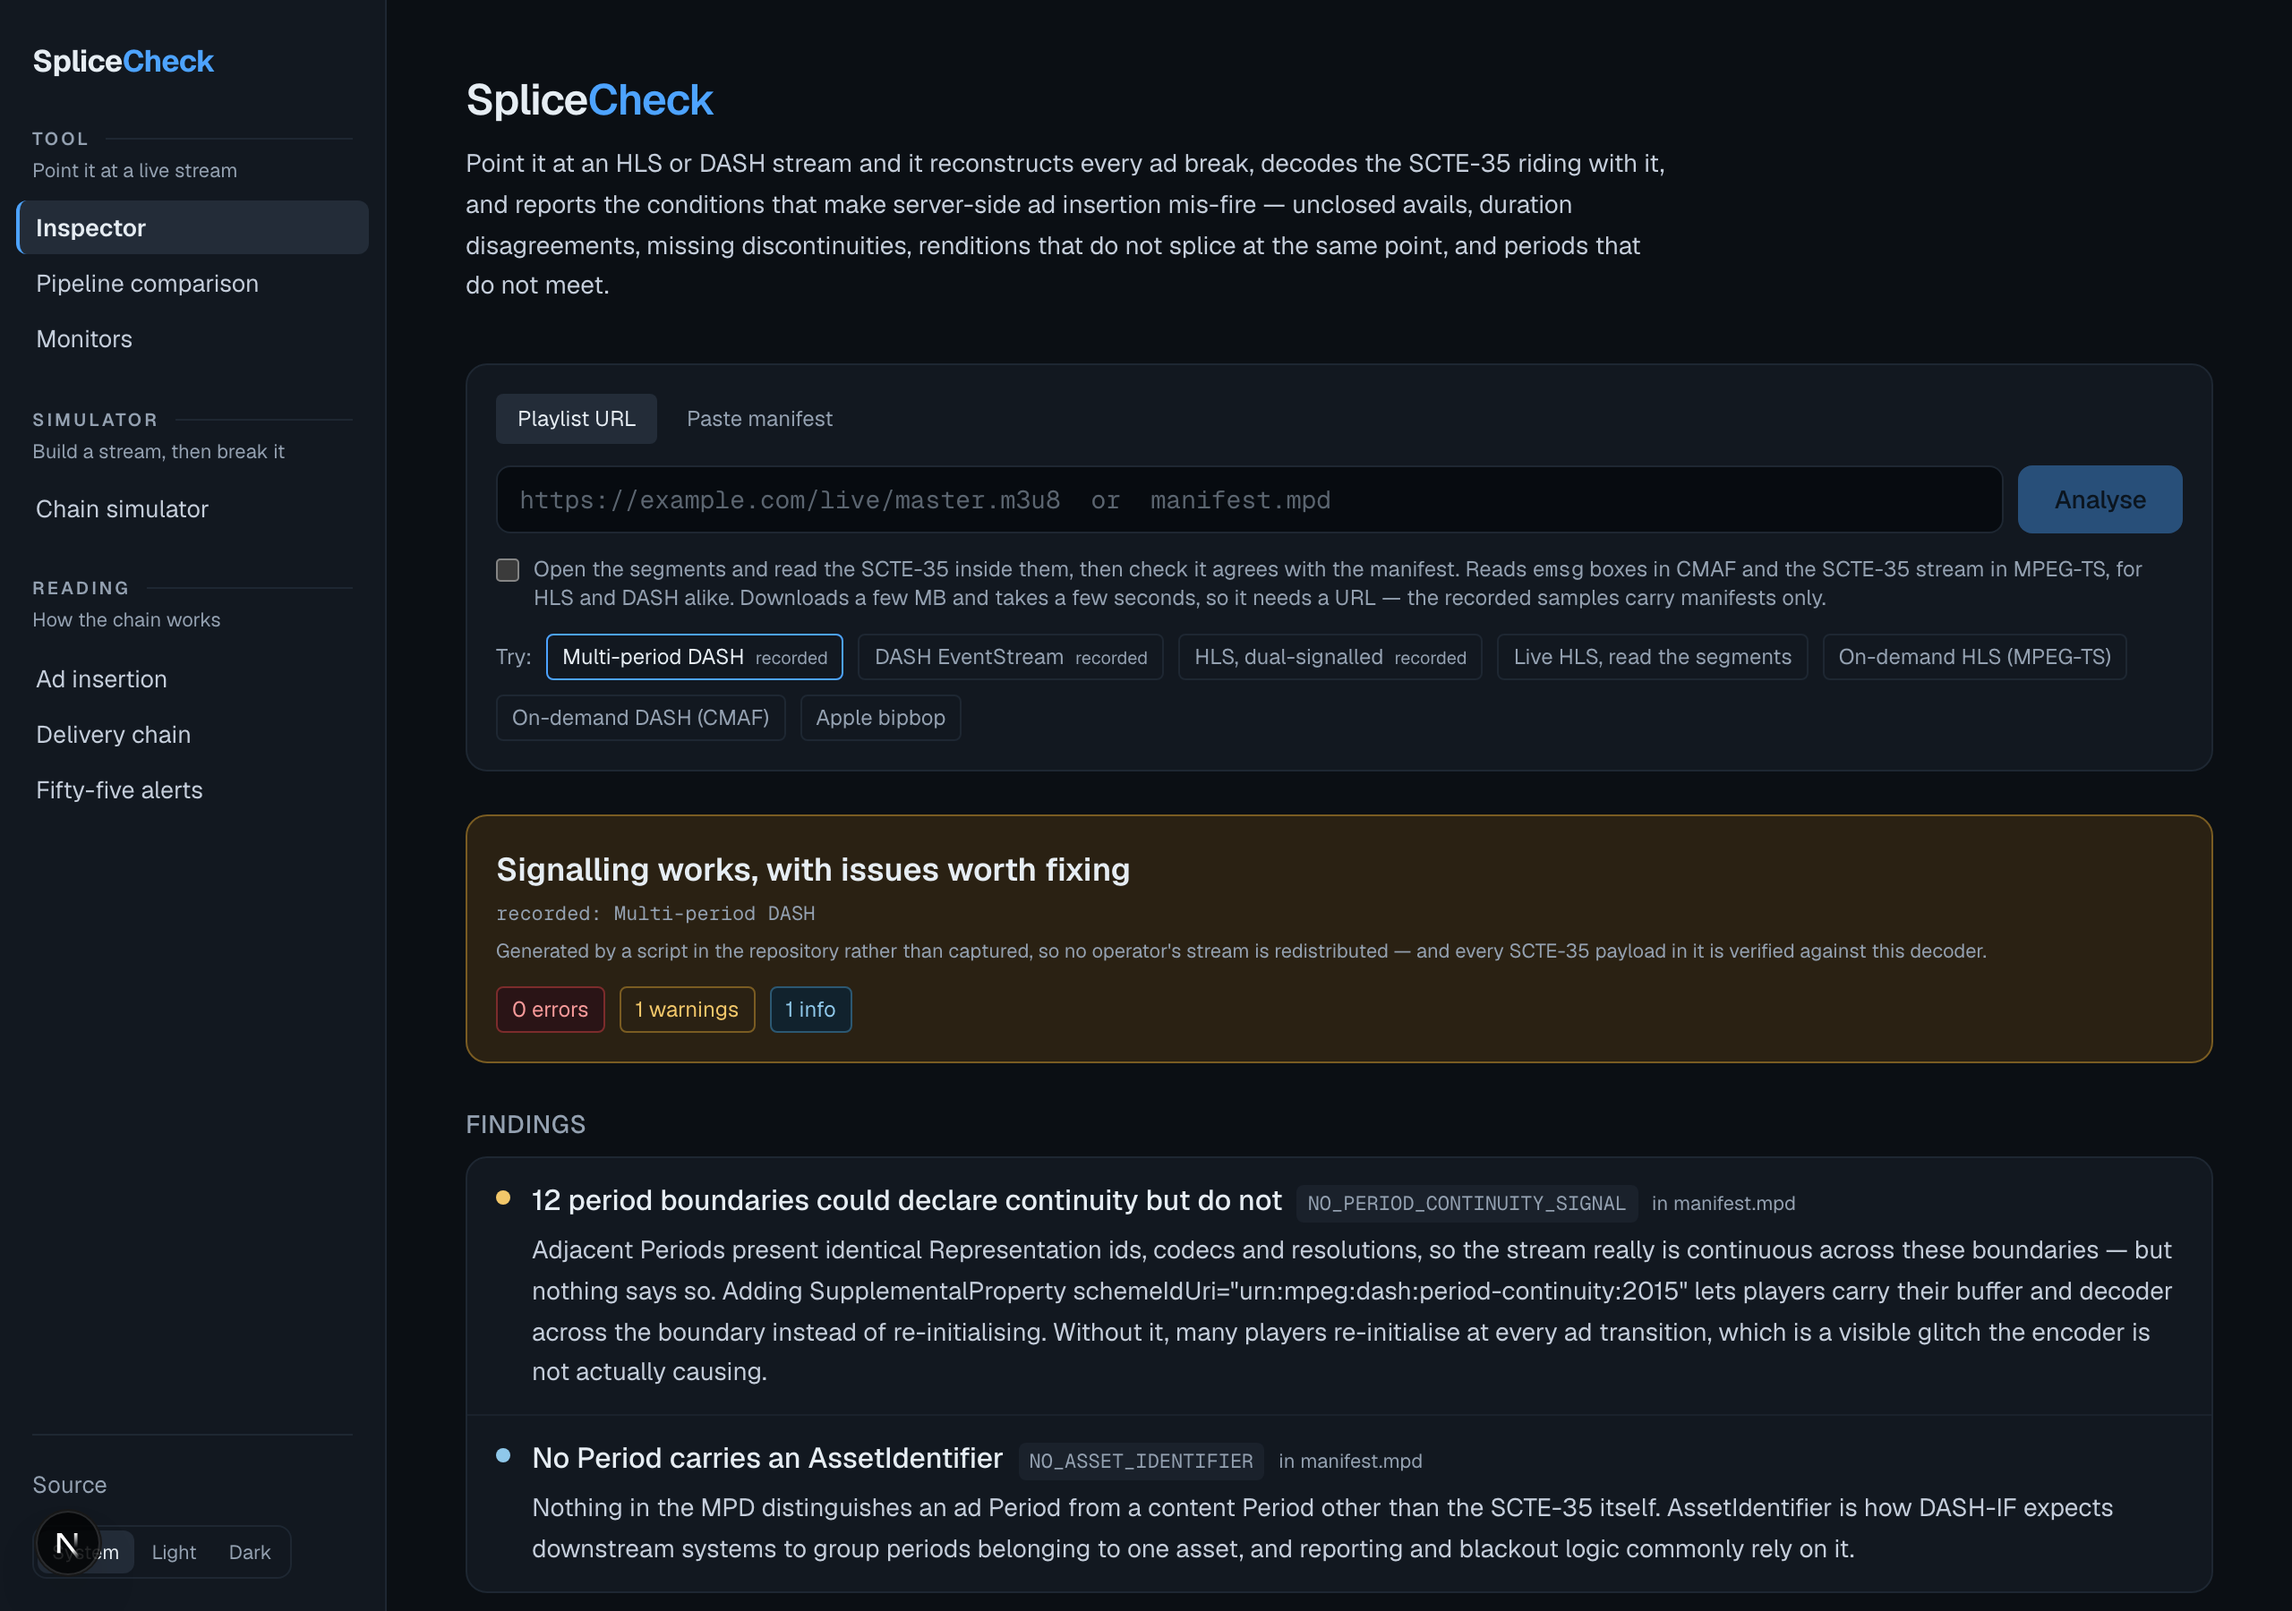
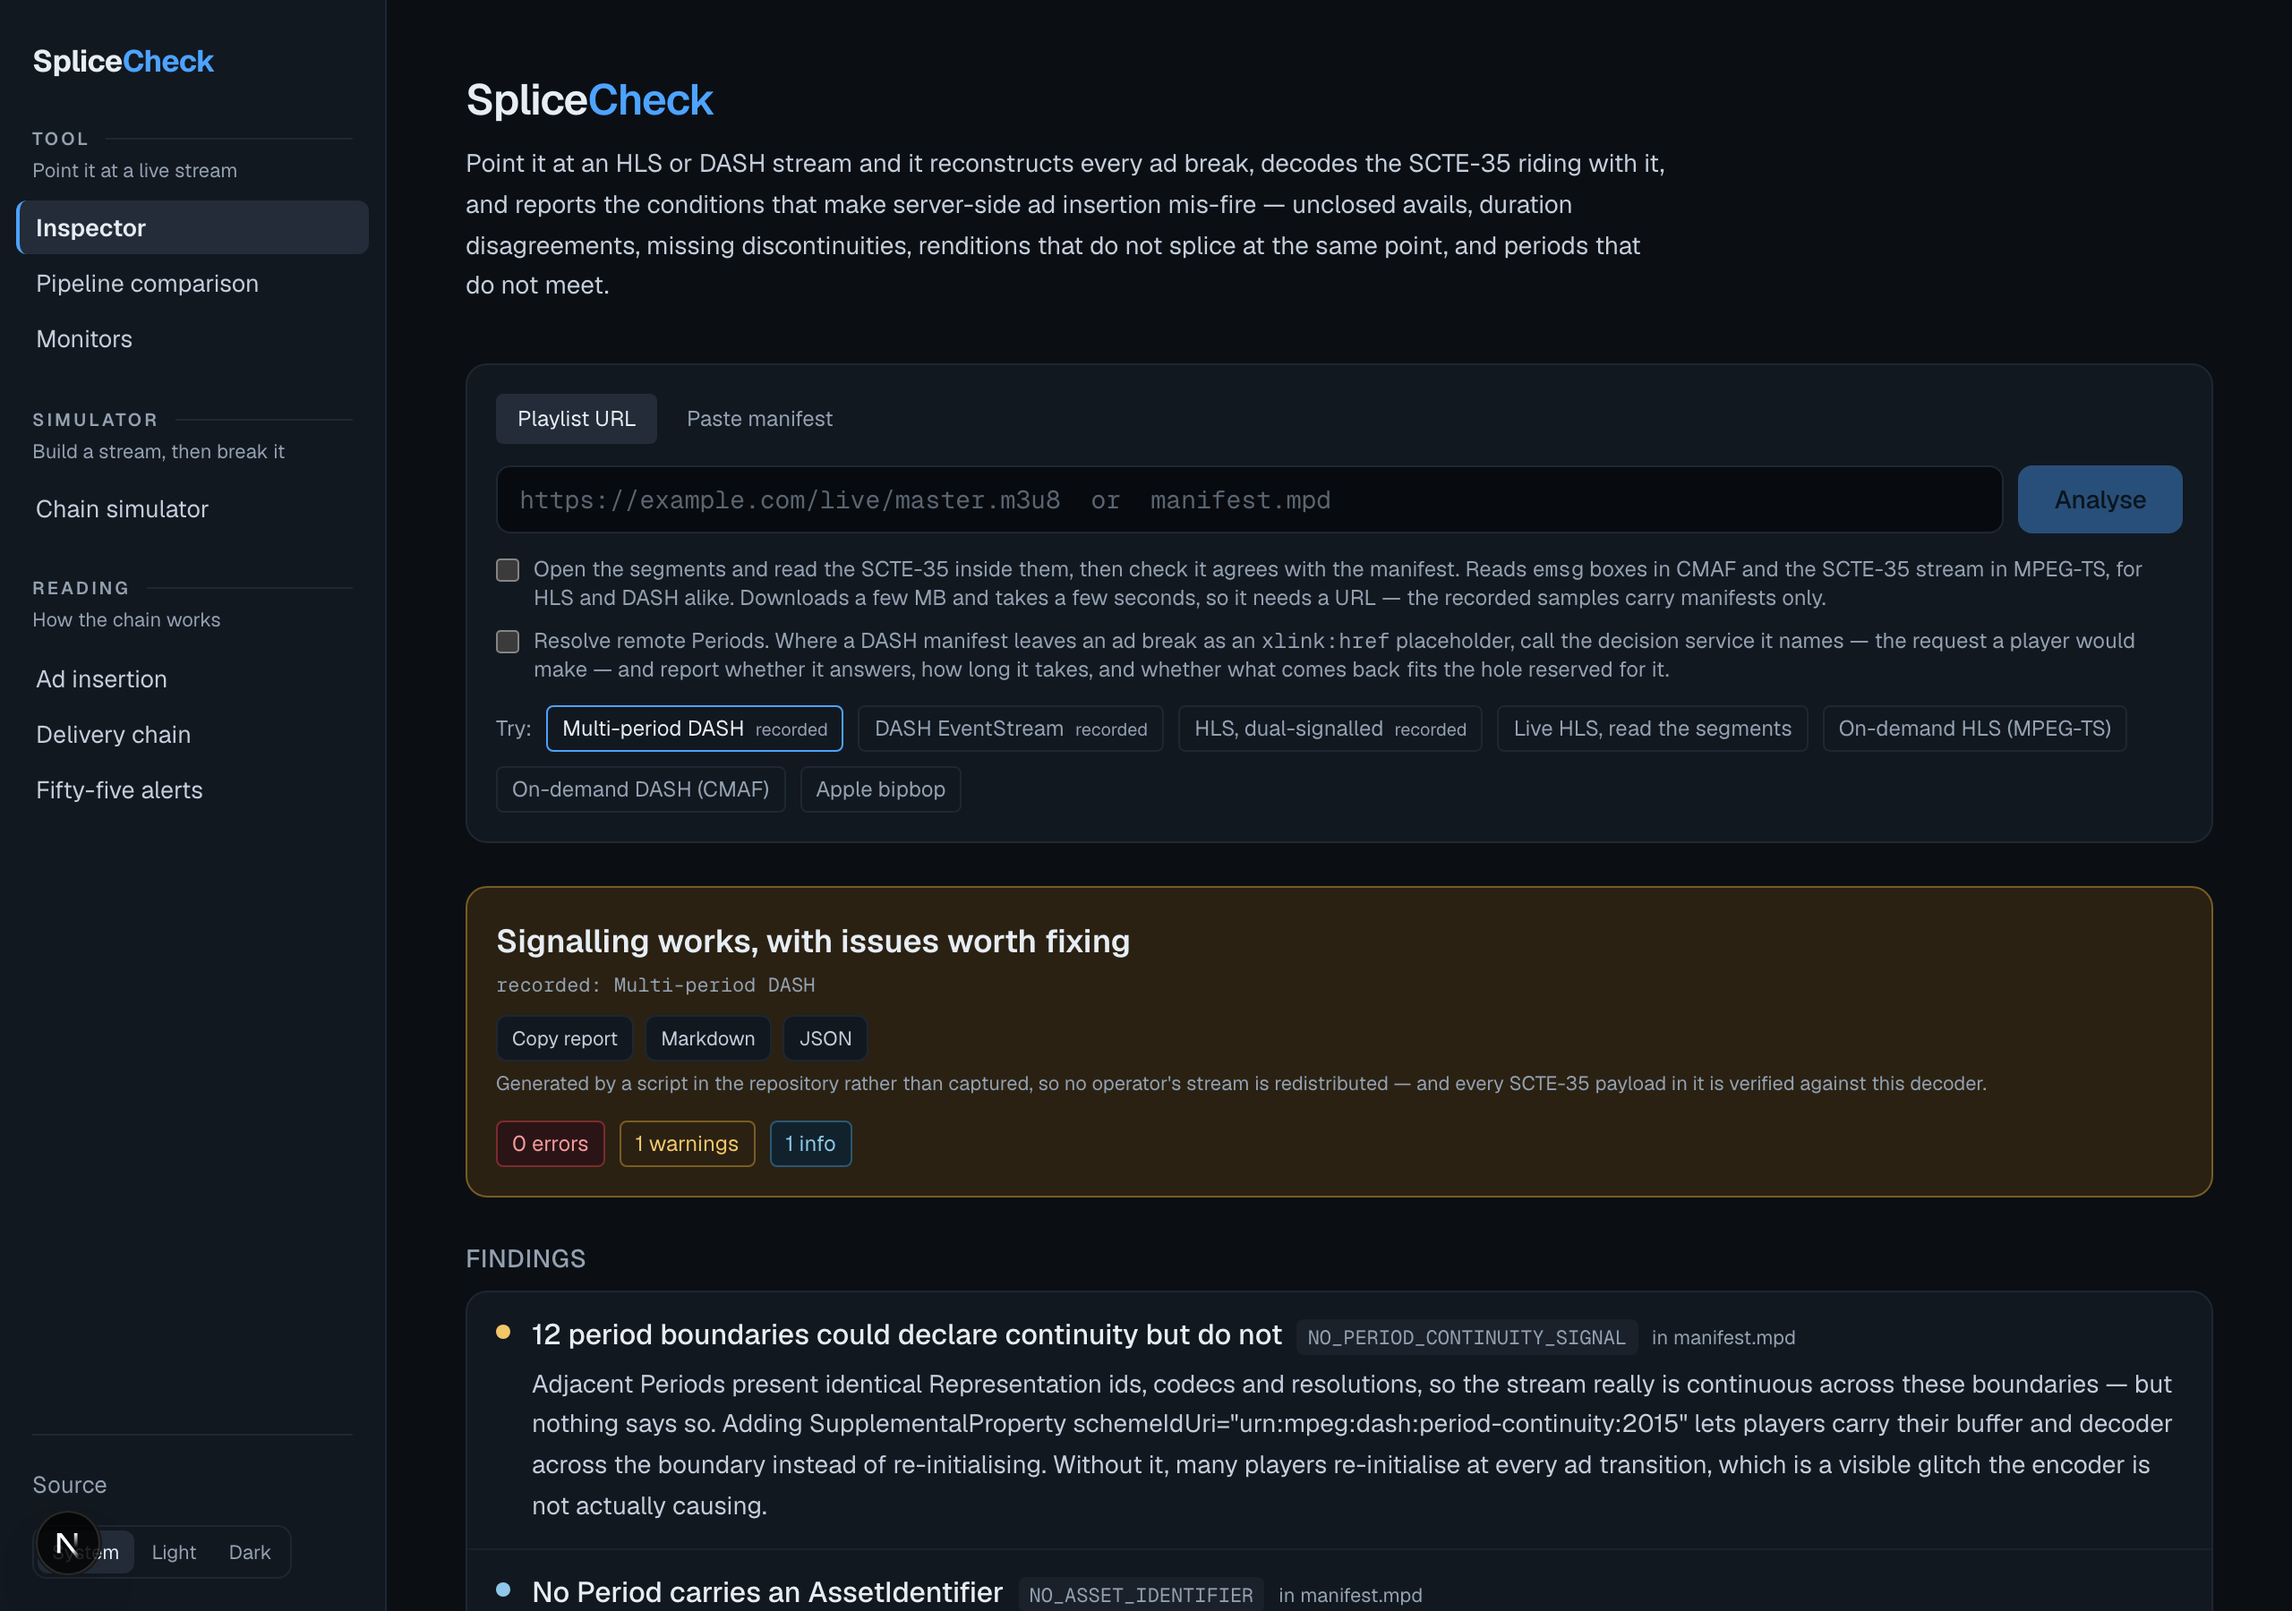
Polish: close the gaps the last three features left behind
The pipeline comparison could not export. comparisonToMarkdown was
written and wired only to the CLI, so the page that produces the number
people argue with vendors about was the one page you had to screenshot.
It now has the same three buttons as the inspector.

The README described none of the last three pieces of work. Remote
Periods and low latency now have code tables like the HLS and DASH ones,
the report is listed among what the project offers, and the CLI section
shows the flags that exist rather than two of them. Test count was 125
and is 163.

The guide's standards table listed RFC 8216 but not 8216bis, and did not
mention XLink at all, while two sections of that same guide now depend
on both.

And the screenshot script selected the ad-service control by index,
which quietly became the wrong control the moment a Latency select was
added above it. It now selects by label, so adding a control cannot
silently repoint it.

Changed region(s): [[0.1875, 0.3733, 0.9688, 0.9956], [0.8125, 0.4044, 0.9062, 0.4667], [0.8438, 0.3733, 0.9375, 0.4044]]

diff --git a/src/app/compare/page.tsx b/src/app/compare/page.tsx
@@ -4,6 +4,7 @@
 import { useState } from "react";
 import type { AvailComparison, AvailStatus, PipelineComparison } from "@/lib/pipeline";
 import type { Finding } from "@/lib/analyze";
+import { comparisonToMarkdown, reportFilename } from "@/lib/report";
 
 const STATUS: Record<AvailStatus, { label: string; chip: string; blurb: string }> = {
   filled: {
@@ -68,6 +69,60 @@ function FillBar({ a }: { a: AvailComparison }) {
   return (
     <div className="h-1.5 w-full overflow-hidden rounded-full bg-raise">
       <div className={`h-full ${colour}`} style={{ width: `${Math.min(ratio, 1) * 100}%` }} />
+    </div>
+  );
+}
+
+/**
+ * The same escape hatch the inspector has. A fill rate is a number somebody
+ * has to argue about with a vendor, so it needs to leave the page with its
+ * working attached.
+ */
+function ExportButtons({ comparison }: { comparison: PipelineComparison }) {
+  const [copied, setCopied] = useState(false);
+
+  function download(text: string, ext: string, type: string) {
+    const url = URL.createObjectURL(new Blob([text], { type }));
+    const a = document.createElement("a");
+    a.href = url;
+    a.download = reportFilename(comparison.stitched.uri, ext);
+    a.click();
+    URL.revokeObjectURL(url);
+  }
+
+  async function copy() {
+    const md = comparisonToMarkdown(comparison, { toolUrl: window.location.origin });
+    try {
+      await navigator.clipboard.writeText(md);
+      setCopied(true);
+      window.setTimeout(() => setCopied(false), 2000);
+    } catch {
+      download(md, "md", "text/markdown");
+    }
+  }
+
+  const btn =
+    "rounded-md border border-edge bg-panel px-2 py-1 text-[11px] text-soft transition-colors hover:bg-raise hover:text-foreground";
+
+  return (
+    <div className="mt-2 flex flex-wrap gap-1.5">
+      <button type="button" className={btn} onClick={copy}>
+        {copied ? "Copied" : "Copy report"}
+      </button>
+      <button
+        type="button"
+        className={btn}
+        onClick={() => download(comparisonToMarkdown(comparison, { toolUrl: window.location.origin }), "md", "text/markdown")}
+      >
+        Markdown
+      </button>
+      <button
+        type="button"
+        className={btn}
+        onClick={() => download(JSON.stringify(comparison, null, 2), "json", "application/json")}
+      >
+        JSON
+      </button>
     </div>
   );
 }
@@ -192,6 +247,7 @@ export default function Compare() {
                   signalled across {result.summary.signalled} avail
                   {result.summary.signalled === 1 ? "" : "s"}
                 </div>
+                <ExportButtons comparison={result} />
               </div>
               <div className="grid grid-cols-2 gap-x-6 gap-y-1 text-sm sm:grid-cols-3">
                 <Count label="filled" n={result.summary.filled} tone="text-ok" />

diff --git a/public/guide.html b/public/guide.html
@@ -1550,6 +1550,8 @@ descriptors         1 × avail_descriptor (CUEI)
         <tr><td>OMID</td><td>IAB Tech Lab</td><td>Open Measurement — third-party viewability verification inside the player.</td></tr>
         <tr><td>RFC 8216</td><td>IETF / Apple</td><td>HLS. Defines <code>EXT-X-DATERANGE</code>, discontinuities, and playlist rules.</td></tr>
         <tr><td>HLS Interstitials</td><td>Apple</td><td>Player-fetched ad assets signalled by a DATERANGE class.</td></tr>
+        <tr><td>RFC 8216<em>bis</em></td><td>IETF / Apple</td><td>Low-latency HLS: <code>EXT-X-PART</code>, <code>EXT-X-SERVER-CONTROL</code>, blocking reload, delta updates.</td></tr>
+        <tr><td>XLink 1.0</td><td>W3C</td><td>Referenced by DASH for remote Periods — <code>xlink:href</code> and <code>xlink:actuate</code>.</td></tr>
         <tr><td>ISO/IEC 23009-1</td><td>MPEG</td><td>DASH. Periods, EventStream, <code>emsg</code>.</td></tr>
         <tr><td>DASH-IF IOP</td><td>DASH-IF</td><td>Interoperability guidance — in practice more prescriptive than the base spec.</td></tr>
         <tr><td>ISO/IEC 13818-1</td><td>MPEG</td><td>Transport streams. PMT, stream types, PES, PCR.</td></tr>

diff --git a/scripts/screenshots.ts b/scripts/screenshots.ts
@@ -87,7 +87,13 @@ async function main() {
   // Under-fill is the one to show: it lands on the stitched output, so the
   // finding and the comparison that grades it appear side by side. A fault
   // belonging to the source manifest would leave this panel correctly empty.
-  await page.locator("select").nth(4).selectOption("under-fill");
+  // By label, not by index: adding a control to the page should not silently
+  // repoint this at a different one.
+  await page
+    .locator("label")
+    .filter({ hasText: "Ad service behaviour" })
+    .locator("select")
+    .selectOption("under-fill");
   await page.waitForTimeout(2500);
   await page
     .locator("section", { hasText: "The inspector on" })

diff --git a/README.md b/README.md
@@ -24,6 +24,8 @@ Three parts, plus a CLI:
 - **Monitor** (`/monitors`) — polls on an interval and alerts on transitions
 - **Simulator** (`/simulator`) — builds a stream through the whole chain, so the
   rules can be tested against faults whose ground truth is known
+- **Reports** — any result copies or downloads as Markdown for a ticket, or as
+  JSON for a pipeline
 - **CLI** — the same analysis in a terminal or a build pipeline
 
 > The hosted demo runs the inspector and the comparison in full. Continuous
@@ -290,6 +292,38 @@ they share: `VARIANT_BREAK_COUNT_MISMATCH`, `VARIANT_MISSING_BREAK`,
 | `EMPTY_PERIOD` | An avail was opened and never filled — what a failed ad decision looks like |
 | `MUP_LONGER_THAN_SHORTEST_BREAK` | An avail can begin and end between two MPD refreshes and never be seen |
 
+**Remote Periods (DASH xlink)** — the mechanism multi-period DASH actually uses
+for server-side insertion: the packager reserves the hole and names a service
+that fills it at playback time.
+
+| Code | What it catches |
+| --- | --- |
+| `XLINK_NO_DURATION` | A placeholder with no `@duration` — the timeline can't be laid out past it, and nothing can be told how much inventory to fill |
+| `XLINK_NO_ACTUATE` | Resolution timing left to the client: the ad request goes out minutes early or at the splice point, depending on the player |
+| `XLINK_ONLOAD_ON_LIVE` | `actuate="onLoad"` on a manifest refreshed every few seconds — every viewer re-requests the decision at that rate |
+| `XLINK_RESOLVE_FAILED` / `_UNPARSEABLE` | The service didn't answer, or answered with something that isn't DASH. The avail is lost and the manifest never said so |
+| `XLINK_DURATION_MISMATCH` | Resolved content is a different length than the hole reserved for it, shifting every Period after it |
+| `XLINK_CODEC_MISMATCH` | The ad is encoded differently than the programme — decoder tear-down at both ends of the break |
+| `XLINK_RESOLVE_SLOW` | The decision took longer than the playback deadline, so it arrived after the moment it was needed |
+
+The last four require making the request a player would make, which is opt-in
+for the same reason reading segments is. Everything else in this project can be
+judged from a manifest's text; this cannot.
+
+**Low latency** — parts and chunks change what the numbers mean. A player sits
+about a second behind the edge instead of eighteen, and every ad decision has to
+fit inside that.
+
+| Code | What it catches |
+| --- | --- |
+| `LL_PART_HOLD_BACK_TOO_SMALL` | Below the spec floor of three part durations — clients sit closer to live than the packager can sustain and rebuffer |
+| `LL_NO_SERVER_CONTROL` / `LL_NO_BLOCKING_RELOAD` | Parts published without the contract that makes them useful; the latency saved is spent polling |
+| `LL_DELTA_UPDATE_DROPS_DATERANGES` | `CAN-SKIP-UNTIL` without `CAN-SKIP-DATERANGES=YES` — the break exists for viewers doing full reloads and not for viewers taking delta updates |
+| `LL_DASH_TARGET_UNREACHABLE` | A latency target shorter than a segment, with no chunked delivery to make it reachable |
+| `LL_DASH_DELAY_DISAGREEMENT` | `@suggestedPresentationDelay` and `ServiceDescription` naming two different live points |
+| `LL_DASH_EARLY_AVAILABILITY_WITHOUT_CHUNKING` | Segments offered early while still claimed complete — clients fetch a truncation or a 404 |
+| `LL_AD_DECISION_BUDGET` | Not a fault: the hold-back or latency target stated outright, because it is the entire time an ad decision has |
+
 ## The monitor
 
 Add a stream, pick an interval, optionally give it a Slack webhook. Each poll
@@ -416,7 +450,7 @@ clean run stays silent.
 ## Testing
 
 ```bash
-npm test      # 125 tests across 8 files
+npm test      # 163 tests across 10 files
 ```
 
 - **Spec vectors** — the SCTE-35 decoder is asserted against published ANSI/SCTE
@@ -449,6 +483,11 @@ npm run build:cli
 
 ./dist/cli.mjs <url|file>                    # analyse a manifest
 ./dist/cli.mjs compare <source> <output>     # compare a feed with its stitched output
+
+./dist/cli.mjs <url> --segments 8            # open the segments and read the cues
+./dist/cli.mjs <url> --markdown              # a findings report, for a ticket
+./dist/cli.mjs <url> --json                  # the full analysis, for a pipeline
+./dist/cli.mjs <url> --strict                # exit non-zero on warnings too
 ```
 
 Takes a URL or a path, so it works against a live origin or a captured manifest.
